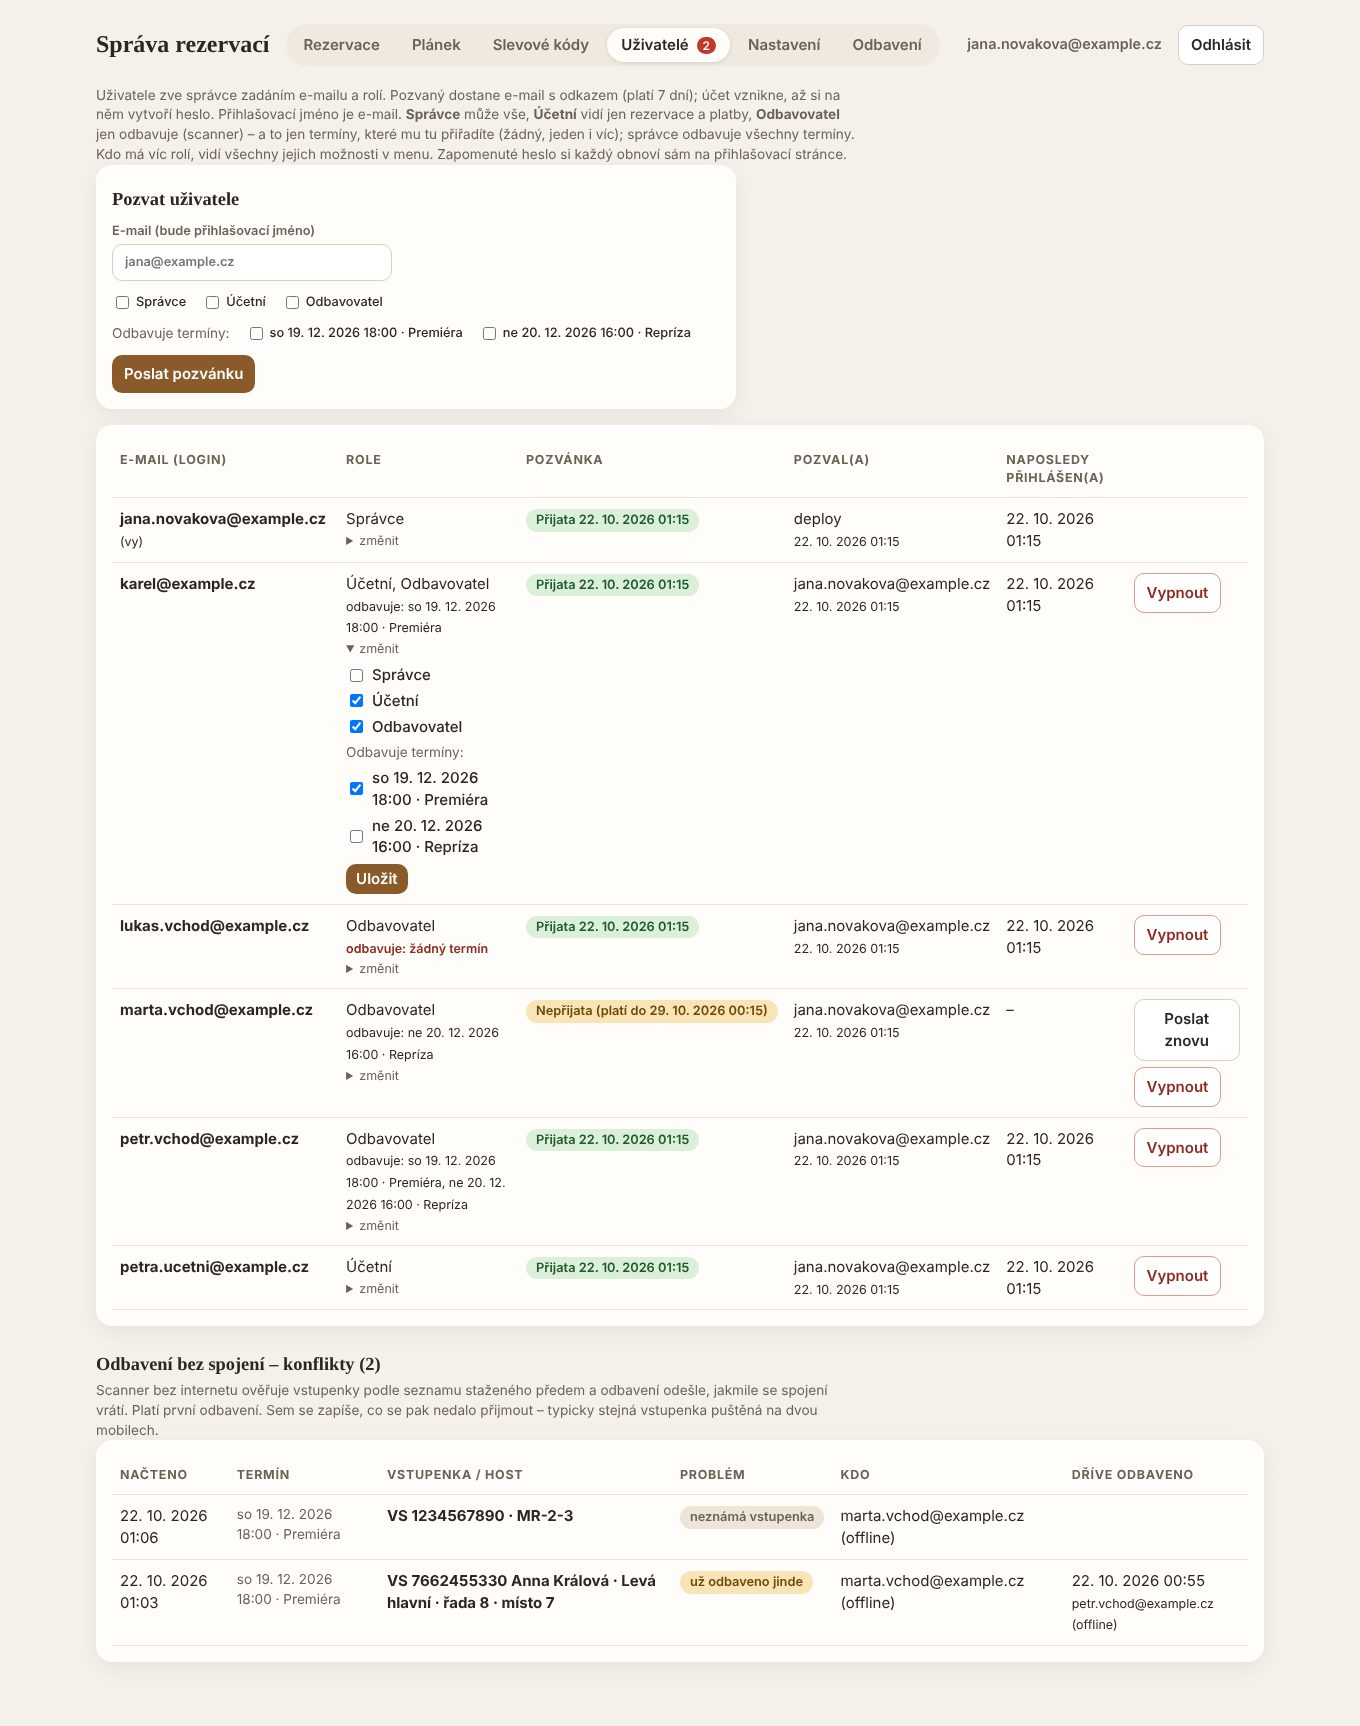
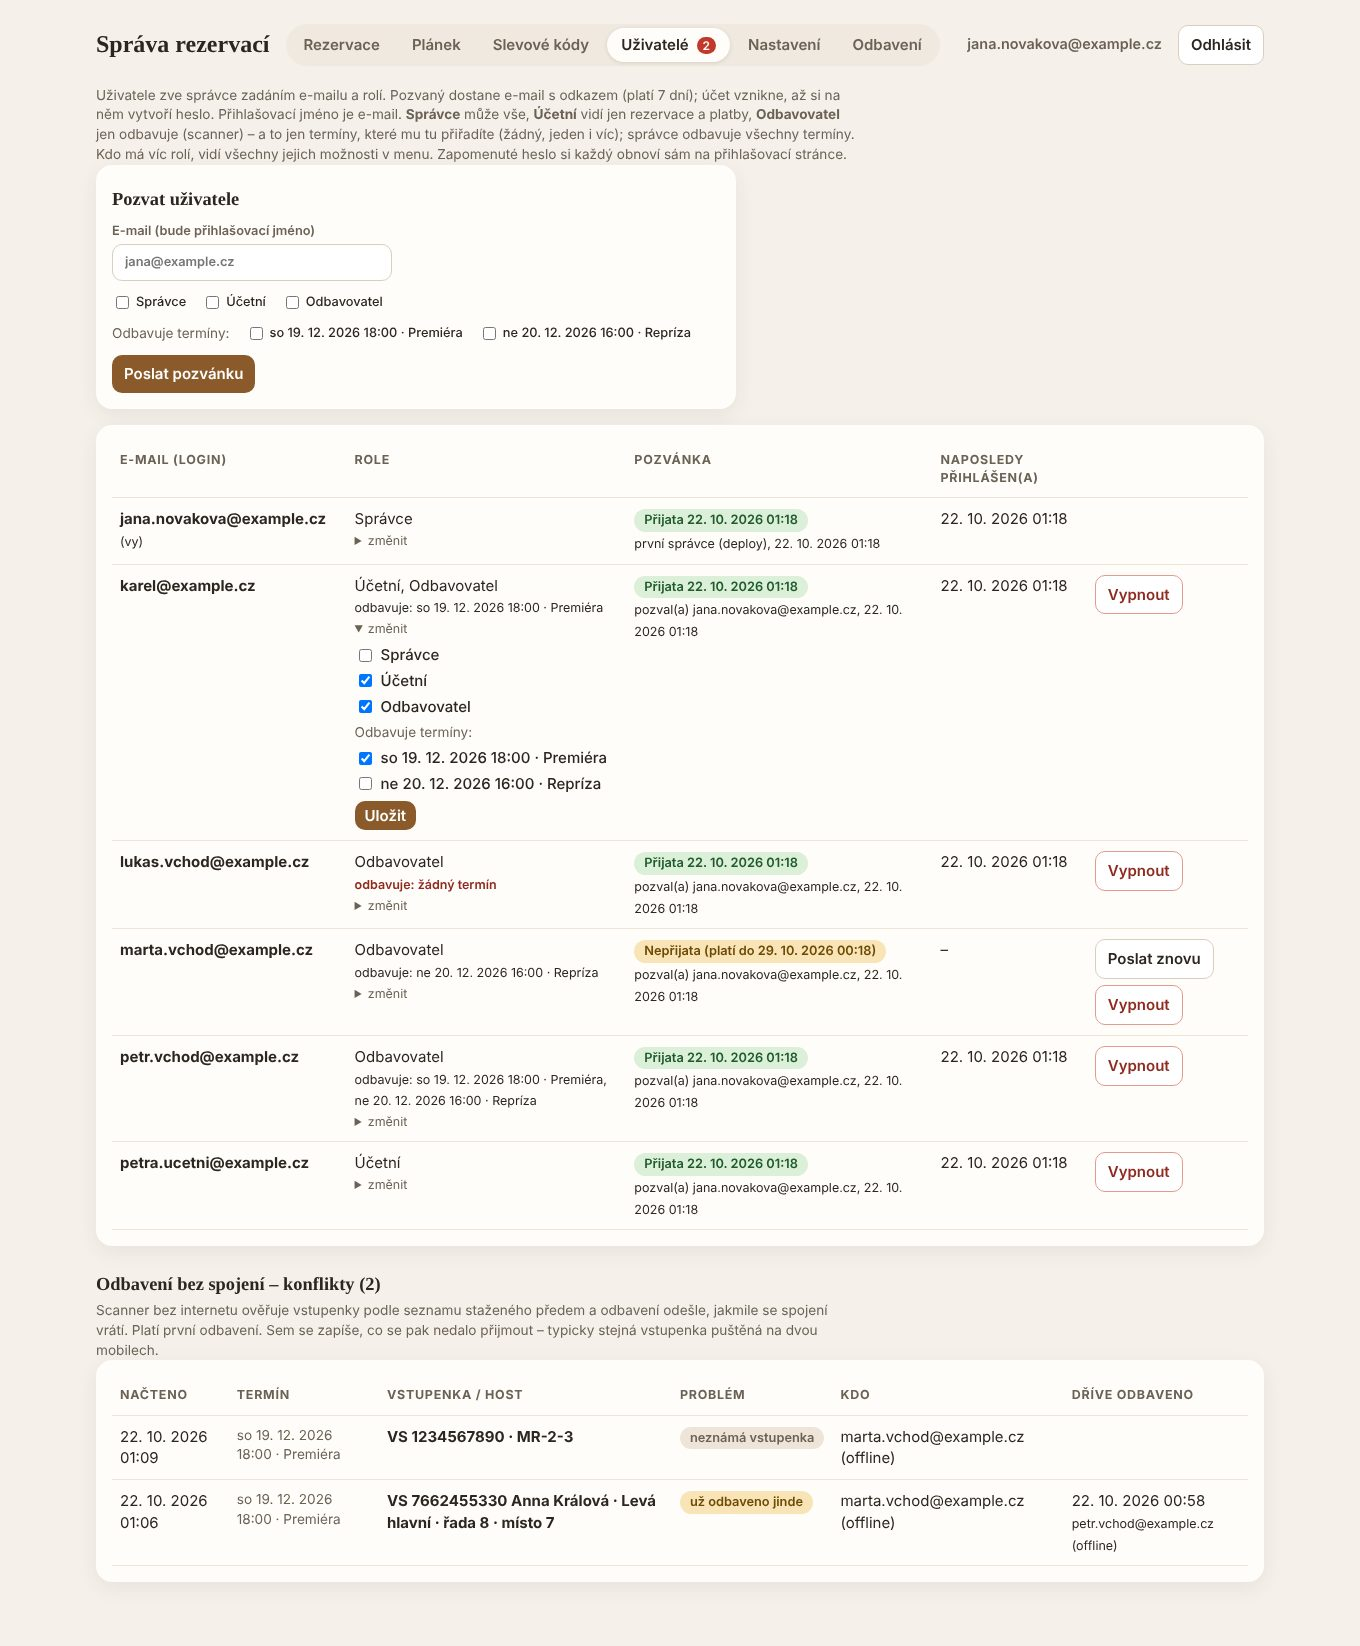
Admin users: one column for the invitation and who sent it
Claude-Session: https://claude.ai/code/session_01Tqukm7uUaAAmFan7fEuHMF

diff --git a/docs/prehled/index.html b/docs/prehled/index.html
@@ -232,7 +232,7 @@ footer { color: var(--fg-2); font-size: .85rem; border-top: 1px solid var(--line
         <figcaption><strong>Slevové kódy</strong>Zadáte e-maily, každý dostane jeden kód (kdo má dostat víc, zadejte ho víckrát). Je vidět, který kód byl použit a na jaké místo. Nepoužitý kód lze poslat znovu nebo zrušit.</figcaption></figure>
       <figure><div class="desktop"><img src="18-admin-konflikty.jpg" alt="Konflikty z odbavení bez internetu" width="1360" height="860" loading="lazy"></div>
         <figcaption><strong>Konflikty z odbavení bez internetu</strong>Co scanner bez spojení pustil, ale už to neplatilo – typicky stejná vstupenka na dvou mobilech. Počet svítí červeně v záložce Uživatelé.</figcaption></figure>
-      <figure><div class="desktop"><img src="19-admin-uzivatele.jpg" alt="Uživatelé a jejich role" width="1360" height="1726" loading="lazy"></div>
+      <figure><div class="desktop"><img src="19-admin-uzivatele.jpg" alt="Uživatelé a jejich role" width="1360" height="1646" loading="lazy"></div>
         <figcaption><strong>Uživatelé</strong>Jen pro správce. Pozvání dalšího správce, účetní nebo odbavovatele zadáním e-mailu a rolí (může jich mít víc). Uživatel je jeho e-mail – žádné další jméno se nezadává. Odbavovateli se zaškrtnou představení, která bude odbavovat (žádné, jedno i víc); u každého je vidět „odbavuje: …“, bez představení červeně „žádný termín“. U každého je vidět, zda pozvánku přijal; role a představení lze změnit, účet vypnout, nepřijatou pozvánku poslat znovu.</figcaption></figure>
       <figure><div class="desktop"><img src="20-pozvanka-heslo.jpg" alt="Vytvoření hesla z pozvánky" width="1360" height="860" loading="lazy"></div>
         <figcaption><strong>Přijetí pozvánky</strong>Odkaz z e-mailu: pozvaný si vytvoří heslo – tím vznikne jeho účet. Přihlašovacím jménem je e-mail. Odbavovatel pak rovnou skončí ve scanneru.</figcaption></figure>

diff --git a/api/admin.php b/api/admin.php
@@ -754,7 +754,7 @@ $statusLabels = ['pending' => 'Čeká na platbu', 'paid' => 'Zaplaceno', 'expire
 
   <div class="card table">
     <table>
-      <thead><tr><th>E-mail (login)</th><th>Role</th><th>Pozvánka</th><th>Pozval(a)</th><th>Naposledy přihlášen(a)</th><th></th></tr></thead>
+      <thead><tr><th>E-mail (login)</th><th>Role</th><th>Pozvánka</th><th>Naposledy přihlášen(a)</th><th></th></tr></thead>
       <tbody>
       <?php foreach ($users as $u):
           $pending = $u['password_hash'] === null;
@@ -785,8 +785,8 @@ $statusLabels = ['pending' => 'Čeká na platbu', 'paid' => 'Zaplaceno', 'expire
               </form>
             </details>
           </td>
-          <td><span class="badge <?= $badge ?>"><?= $h($label) ?></span></td>
-          <td><?= $h($u['invited_by']) ?><br><small><?= $h($fmt($u['created_at'])) ?></small></td>
+          <td><span class="badge <?= $badge ?>"><?= $h($label) ?></span>
+            <br><small><?= $u['invited_by'] === 'deploy' ? 'první správce (deploy)' : 'pozval(a) ' . $h($u['invited_by']) ?>, <?= $h($fmt($u['created_at'])) ?></small></td>
           <td><?= $h($fmt($u['last_login_at'])) ?: '–' ?></td>
           <td>
             <div class="actions">

diff --git a/docs/DEVELOPER.md b/docs/DEVELOPER.md
@@ -859,8 +859,9 @@ Tabs:
   run checkboxes + **Uložit** (`user-roles` → `admin_set_roles()`: at least one
   role, *„Svou vlastní roli Správce nelze odebrat.“*; on success
   `save_user_runs()` and *„Role a termíny účtu X uloženy.“*),
-  invitation state *Přijata <time>* / *Nepřijata (platí do …)* / *Nepřijata –
-  vypršela* / *Účet vypnut*, invited by + created, last sign-in. Actions:
+  column *Pozvánka*: state *Přijata <time>* / *Nepřijata (platí do …)* /
+  *Nepřijata – vypršela* / *Účet vypnut* and below *pozval(a) <e-mail>, <created>*
+  (*první správce (deploy), …* for the deployed one), last sign-in. Actions:
   **Poslat znovu** (`user-link`, only not accepted: new token + e-mail, the
   previous link stops working), **Vypnout** (`user-disable`, not yourself:
   *„Svůj vlastní účet nelze vypnout.“*; also clears open links; *„Účet X
